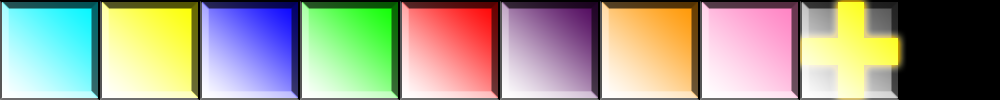
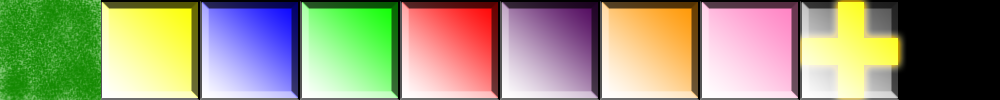
First UI Stuff
-Super good menu screen
-Stand in text for wave number and score
-Buttons on bottom row to be used for buying towers
-Super pretty grass tiles

Changed region(s): [[0.0, 0.0, 0.124, 1.0]]

diff --git a/brick/js/Main.js b/brick/js/Main.js
@@ -3,11 +3,21 @@
 var mainScreen = function (game) {
     this.tileArray = null;
     this.tileGroup = null;
+	
+	this.frameArray = null;
+	this.frameGroup = null;
+	
+	this.wave = null;	//What wave we're on
+	this.waveText = null;
+	this.money = null;	//How much money you have
+	this.moneyText = null;
 }
 
 mainScreen.prototype = {
     preload: function () {
-        game.load.spritesheet("tiles", "./media/tiles.png", 100, 100);
+        game.load.spritesheet("tiles", "media/tiles.png", 100, 100);
+		game.load.image("uiBase", "media/uiBase.png", 1000, 100);
+		game.load.image("frame", "media/towerFrame.png", 50, 50);
     },
 
     init: function () {
@@ -17,15 +27,30 @@ mainScreen.prototype = {
         this.fieldSizeCol = 10;
         this.tileTypes = 10;				// different kind of tiles allowed
         this.score = 0;
+		this.gameWidth = 500;
+		this.gameHeight = 350;
 
         this.tileArray = [];				// array with all game tiles
         this.tileGroup; 				// group containing all tiles
         this.movingTileGroup;               // group containing the moving tile
 
+		this.uiTop = null;	//base for the top ui
+		this.uiBot = null;	//base for the bottom ui
+		
+		this.frameArray = [];	//array containing the tower frames
+		
+		this.wave = 0;
+		this.money = 0;
+
+    },
+	
+	create: function(){
+	
+		//Grass Tiles
         for (var i = 0; i < this.fieldSizeRow; i++) {
             this.tileArray[i] = [];
             for (var j = 0; j < this.fieldSizeCol; j++) {
-                var theTile = game.add.sprite((j * this.tileSize) + this.tileSize / 2, (i * this.tileSize) + this.tileSize / 2, "tiles");
+                var theTile = game.add.sprite((j * this.tileSize) + this.tileSize / 2, (i * this.tileSize) + this.tileSize / 2 + 50, "tiles");
                 theTile.frame = 0;
                 theTile.scale.x = 0.5;
                 theTile.scale.y = 0.5;
@@ -38,8 +63,37 @@ mainScreen.prototype = {
                 this.tileArray[i][j] = theTile;
                 this.tileGroup.add(theTile);
             }
-
         }
-
-    }
+		
+		//UI top and bottom
+		this.uiTop = game.add.sprite(0, 0, "uiBase");
+		this.uiTop.scale.x = 0.5;
+		this.uiTop.scale.y = 0.5;
+		
+		
+		this.uiBot = game.add.sprite(0, this.gameHeight - this.tileSize, "uiBase");
+		this.uiBot.scale.x = 0.5;
+		this.uiBot.scale.y = 0.5;
+		
+		//Frames for bottom ui
+		for(var i = 0; i < this.fieldSizeCol; i++){
+			var frame = game.add.button(i * this.tileSize, this.gameHeight - this.tileSize, "frame", this.buyTower, this);
+			frame.num = i;
+			this.frameArray[i] = frame;
+		}
+		
+		//Text for wave and money
+		this.waveText = game.add.text(10, this.tileSize/4, "Wave " + this.wave, {font: '20px Arial', fill: '#fff'});
+		
+		this.moneyText = game.add.text(100, this.tileSize/4, "$" + this.money, {font: '20px Arial', fill: '#fff'});
+	},
+	
+	//Selects a tower to place
+	buyTower: function(button){
+		//Testing to make sure its selecting the right frame
+		console.log("Tower Button " + button.num + " pressed.");
+		
+		//Placing logic goes here
+		//Use button to determine which was pressed
+	}
 };

diff --git a/brick/js/Start.js b/brick/js/Start.js
@@ -18,7 +18,7 @@ menuScreen.prototype = {
 
         this.background = game.add.sprite(0, 0, 'bg');
 
-        var playButton = this.game.add.button(150, 175, "play", this.playGame, this);
+        var playButton = this.game.add.button(250, 175, "play", this.playGame, this);
         playButton.anchor.setTo(0.5, 0.5);
     },
 

diff --git a/brick/index.html b/brick/index.html
@@ -16,7 +16,7 @@
 
 <script>
     "use strict";
-    var game = new Phaser.Game(500, 300, Phaser.CANVAS);
+    var game = new Phaser.Game(500, 350, Phaser.CANVAS);
 
     game.state.add('Menu', menuScreen);
     game.state.add('Main', mainScreen);
